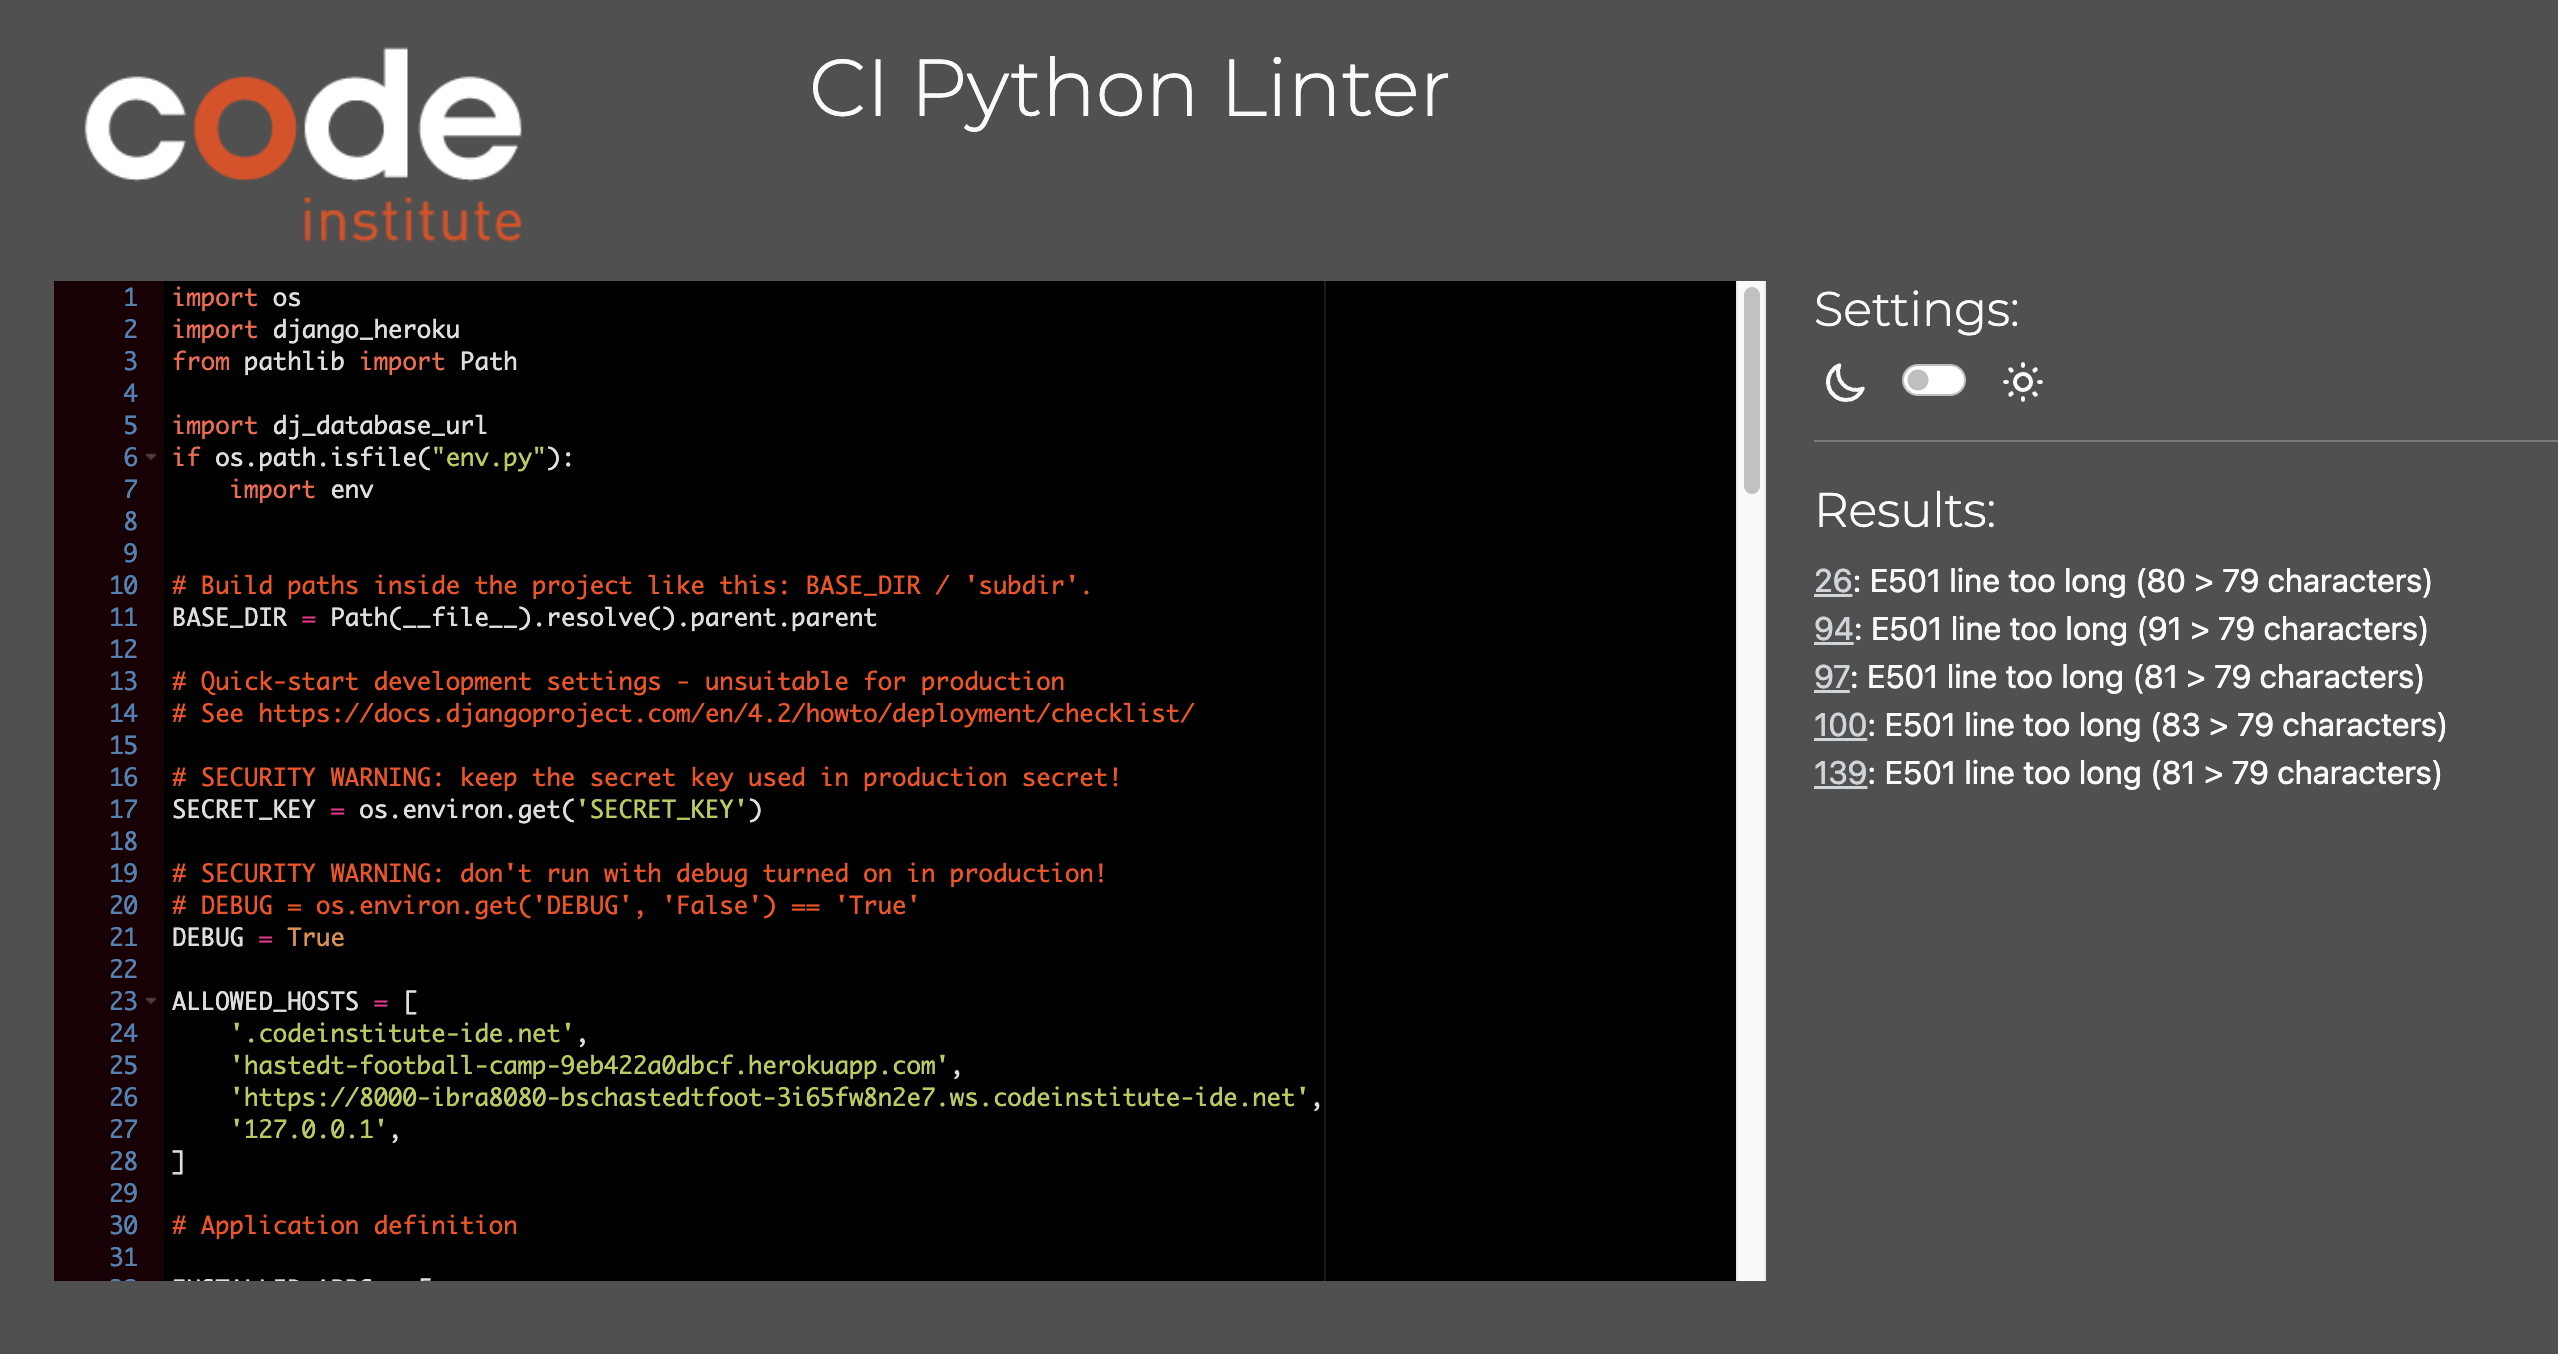
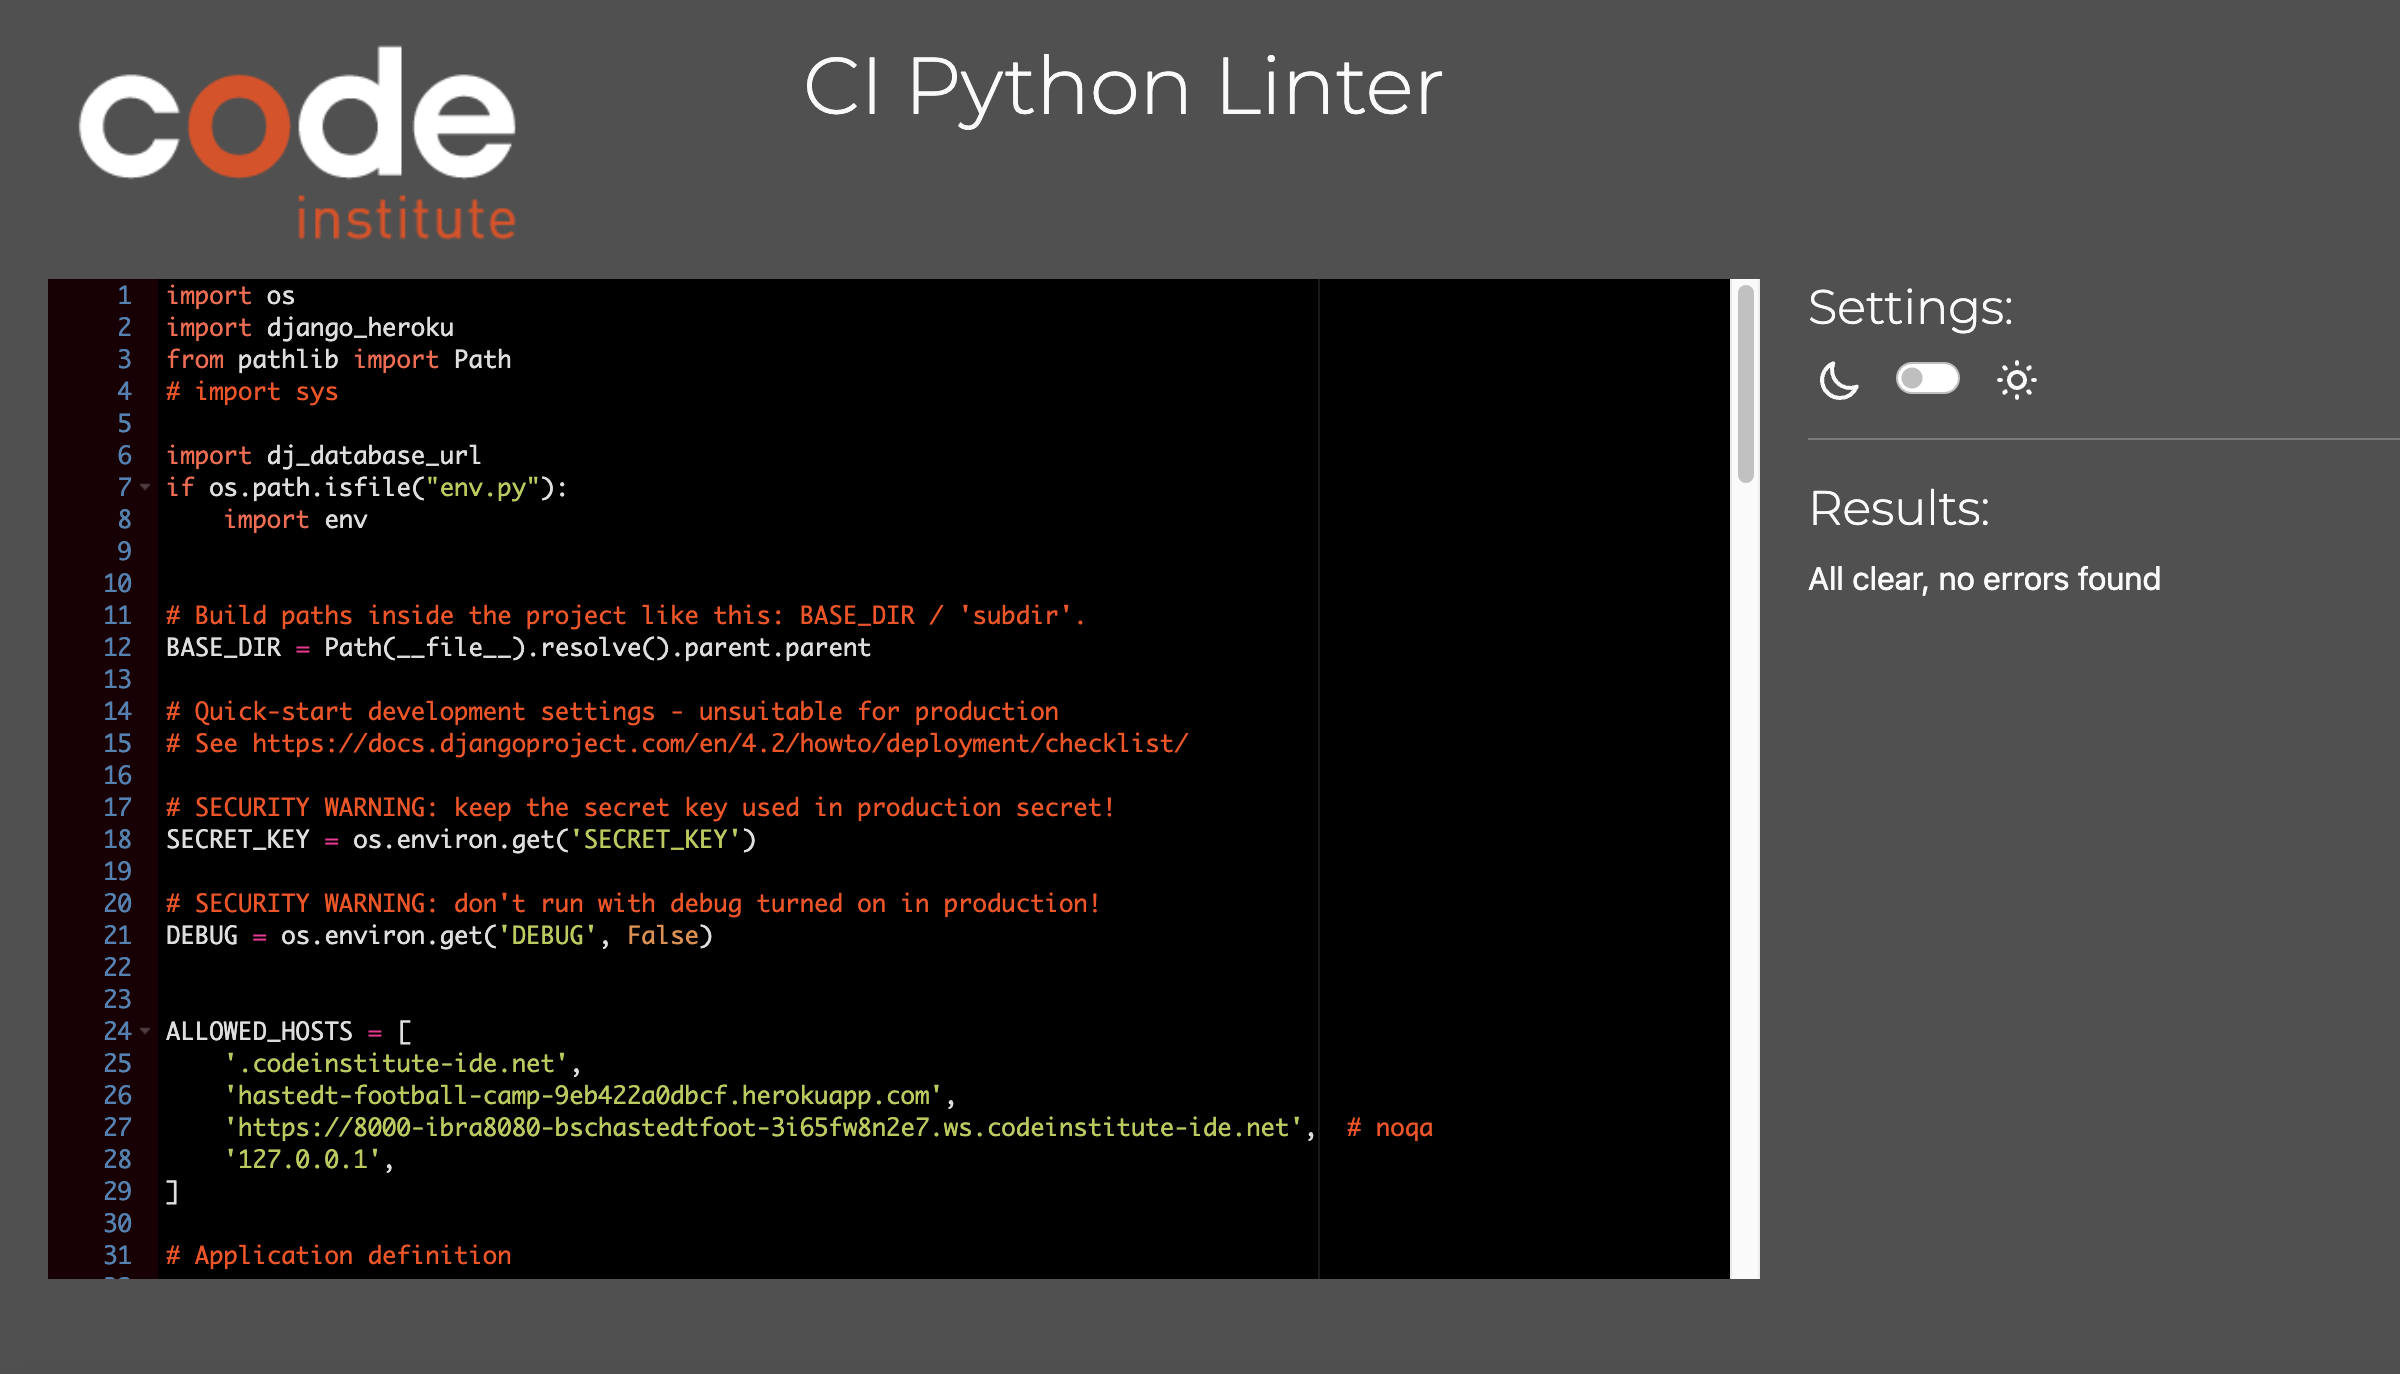
Update testing.md with python validation

Changed region(s): [[0.0, 0.031, 0.9688, 0.9616], [0.3125, 0.031, 0.5938, 0.0931], [0.5625, 0.8065, 0.5938, 0.8375]]

diff --git a/football_camp/urls.py b/football_camp/urls.py
@@ -6,21 +6,60 @@ urlpatterns = [
     path('', views.home, name='home'),
     path('services/', views.service_list, name='service_list'),
     path('book_service/', views.book_service, name='book_service'),
-    path('admin_create_service/', views.admin_create_service, name='admin_create_service'),
-    path('admin_manage_services/', views.admin_manage_services, name='admin_manage_services'),
-    path('view_training_schedule/', views.view_training_schedule, name='view_training_schedule'),
+    path(
+        'admin_create_service/',
+        views.admin_create_service,
+        name='admin_create_service'
+        ),
+    path(
+        'admin_manage_services/',
+        views.admin_manage_services,
+        name='admin_manage_services'
+        ),
+    path(
+        'view_training_schedule/',
+        views.view_training_schedule,
+        name='view_training_schedule'
+        ),
     path('manage_players/', views.manage_players, name='manage_players'),
-    path('player_profile/<int:player_id>/', views.player_profile, name='player_profile'),
-    path('edit_service/<int:service_id>/', views.edit_service, name='edit_service'),
-    path('delete_service/<int:service_id>/', views.delete_service, name='delete_service'),
+    path(
+        'player_profile/<int:player_id>/',
+        views.player_profile,
+        name='player_profile'),
+    path(
+        'edit_service/<int:service_id>/',
+        views.edit_service,
+        name='edit_service'
+        ),
+    path(
+        'delete_service/<int:service_id>/',
+        views.delete_service,
+        name='delete_service'
+        ),
     path('register/', views.register, name='register'),
-    path('accounts/login/', auth_views.LoginView.as_view(template_name='registration/login.html'), name='login'),
-    path('accounts/logout/', auth_views.LogoutView.as_view(next_page='/'), name='logout'),
+    path(
+        'accounts/login/',
+        auth_views.LoginView.as_view(
+            template_name='registration/login.html'), name='login'),
+    path(
+        'accounts/logout/',
+        auth_views.LogoutView.as_view(next_page='/'), name='logout'),
     path('user_account/', views.user_account, name='user_account'),
-    path('edit_booking/<int:booking_id>/', views.edit_booking, name='edit_booking'),
-    path('delete_booking/<int:booking_id>/', views.delete_booking, name='delete_booking'),
+    path(
+        'edit_booking/<int:booking_id>/',
+        views.edit_booking,
+        name='edit_booking'
+         ),
+    path(
+        'delete_booking/<int:booking_id>/',
+        views.delete_booking, name='delete_booking'
+         ),
     path('service/<int:service_id>/', views.service_page, name='service_page'),
     path('player_added/', views.player_added, name='player_added'),
-    path('edit_player/<int:player_id>/', views.edit_player, name='edit_player'),
-    path('delete_player/<int:player_id>/', views.delete_player, name='delete_player'),
+    path(
+        'edit_player/<int:player_id>/',
+        views.edit_player, name='edit_player'),
+    path(
+        'delete_player/<int:player_id>/',
+        views.delete_player, name='delete_player'),
 ]

diff --git a/football_camp/models.py b/football_camp/models.py
@@ -15,9 +15,18 @@ class Service(models.Model):
         max_length=100, verbose_name="Service Duration")
     features = models.TextField(verbose_name="Service Features")
     training = models.CharField(
-        max_length=10, choices=TRAININGS, null=True, blank=True, verbose_name="Training Type")
+        max_length=10,
+        choices=TRAININGS,
+        null=True,
+        blank=True,
+        verbose_name="Training Type"
+    )
     image = models.ImageField(
-        upload_to='services/', blank=True, null=True, verbose_name="Service Image")
+        upload_to='services/',
+        blank=True,
+        null=True,
+        verbose_name="Service Image"
+    )
 
     def __str__(self):
         return self.title
@@ -58,7 +67,7 @@ class Booking(models.Model):
         auto_now_add=True, verbose_name="Booking Date")
 
     def __str__(self):
-        return f"{self.user.username} - {self.player.first_name} {self.player.last_name} - {self.booking_date}"
+        return f"{self.user.username} - {self.player.first_name} {self.player.last_name} - {self.booking_date}"  # noqa
 
     class Meta:
         verbose_name = "Booking"

diff --git a/my_project/settings.py b/my_project/settings.py
@@ -24,7 +24,7 @@ DEBUG = os.environ.get('DEBUG', False)
 ALLOWED_HOSTS = [
     '.codeinstitute-ide.net',
     'hastedt-football-camp-9eb422a0dbcf.herokuapp.com',
-    'https://8000-ibra8080-bschastedtfoot-3i65fw8n2e7.ws.codeinstitute-ide.net',
+    'https://8000-ibra8080-bschastedtfoot-3i65fw8n2e7.ws.codeinstitute-ide.net',  # noqa
     '127.0.0.1',
 ]
 
@@ -139,10 +139,10 @@ DEFAULT_AUTO_FIELD = 'django.db.models.BigAutoField'
 # Authentication settings
 LOGIN_REDIRECT_URL = '/'
 LOGIN_URL = 'login'
-LOGOUT_REDIRECT_URL = '/' 
+LOGOUT_REDIRECT_URL = '/'
 
 # https://whitenoise.evans.io/en/stable/django.html#using-whitenoise-in-development
-# STATICFILES_STORAGE = 'whitenoise.storage.CompressedManifestStaticFilesStorage'
+# STATICFILES_STORAGE = 'whitenoise.storage.CompressedManifestStaticFilesStorage'  # noqa
 
 
 django_heroku.settings(locals())

diff --git a/my_project/urls.py b/my_project/urls.py
@@ -1,4 +1,4 @@
-""" 
+"""
 URL configuration for my_project project.
 
 The urlpatterns list routes URLs to views. For more information please see:
